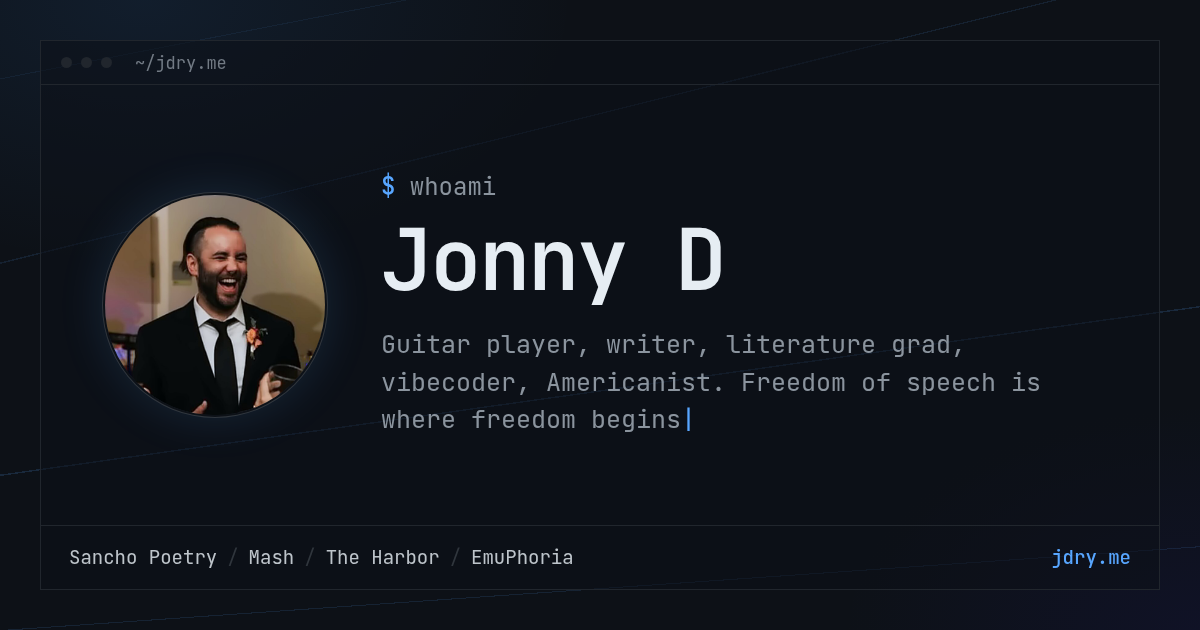
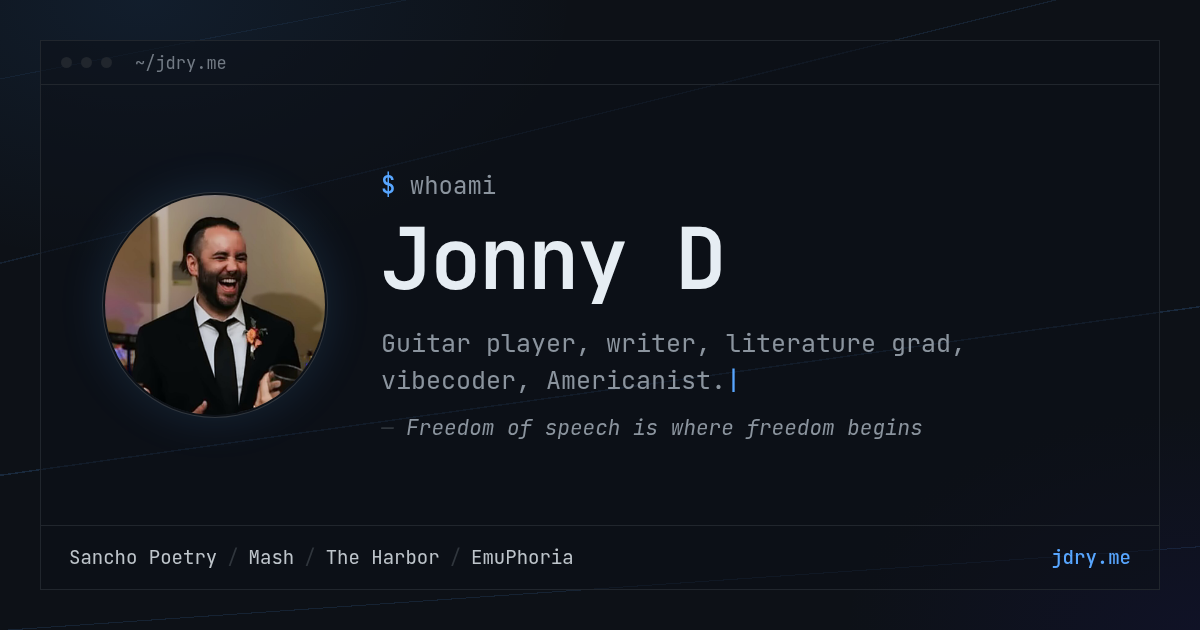
Show the tagline immediately and split out the epigraph (#8)
The typewriter took ~5s to finish, so visitors read a half-typed
sentence and the links jumped when it wrapped. The descriptor now
renders at once with the blinking cursor, and the free-speech line
is a separate profile.epigraph shown as a quieter italic line. The
prerender, JSON-LD, and OG card read the same fields.

diff --git a/src/components/Header.tsx b/src/components/Header.tsx
@@ -4,6 +4,7 @@ import { createPortal } from 'react-dom'
 interface HeaderProps {
   name: string
   tagline: string
+  epigraph: string
   avatar: string
 }
 
@@ -101,43 +102,12 @@ function useAvatarTilt<T extends HTMLElement>(ref: React.RefObject<T | null>, sc
   return { handleMouseEnter, handleMouseMove, handleMouseLeave }
 }
 
-export default function Header({ name, tagline, avatar }: HeaderProps) {
-  const [typed, setTyped] = useState('')
-  const [doneTyping, setDoneTyping] = useState(false)
+export default function Header({ name, tagline, epigraph, avatar }: HeaderProps) {
   const [modalOpen, setModalOpen] = useState(false)
   const reducedMotion = useRef(
     typeof window !== 'undefined' &&
       window.matchMedia('(prefers-reduced-motion: reduce)').matches
   )
-
-  useEffect(() => {
-    if (reducedMotion.current) {
-      setTyped(tagline)
-      setDoneTyping(true)
-      return
-    }
-
-    let intervalId: ReturnType<typeof setInterval> | null = null
-    let i = 0
-
-    const timeoutId = setTimeout(() => {
-      intervalId = setInterval(() => {
-        i++
-        if (i <= tagline.length) {
-          setTyped(tagline.slice(0, i))
-        } else {
-          clearInterval(intervalId!)
-          intervalId = null
-          setDoneTyping(true)
-        }
-      }, 45)
-    }, 500)
-
-    return () => {
-      clearTimeout(timeoutId)
-      if (intervalId) clearInterval(intervalId)
-    }
-  }, [tagline])
 
   const closeModal = useCallback(() => setModalOpen(false), [])
 
@@ -245,9 +215,10 @@ export default function Header({ name, tagline, avatar }: HeaderProps) {
       </button>
       <h1 className="name">{name}</h1>
       <p className="tagline">
-        {typed}
-        <span className={`cursor${doneTyping ? ' cursor--blink' : ''}`} aria-hidden="true">|</span>
+        {tagline}
+        <span className="cursor cursor--blink" aria-hidden="true">|</span>
       </p>
+      <p className="epigraph">{epigraph}</p>
 
       {modalOpen && createPortal(
         <div

diff --git a/scripts/og/template.html b/scripts/og/template.html
@@ -4,6 +4,7 @@
 <meta charset="utf-8" />
 <style>
   @font-face { font-family: 'JBM'; font-weight: 400; src: url('{{fontDir}}/jetbrains-mono-latin-400-normal.woff2'); }
+  @font-face { font-family: 'JBM'; font-weight: 400; font-style: italic; src: url('{{fontDir}}/jetbrains-mono-latin-400-italic.woff2'); }
   @font-face { font-family: 'JBM'; font-weight: 500; src: url('{{fontDir}}/jetbrains-mono-latin-500-normal.woff2'); }
   @font-face { font-family: 'JBM'; font-weight: 600; src: url('{{fontDir}}/jetbrains-mono-latin-600-normal.woff2'); }
   * { margin: 0; padding: 0; box-sizing: border-box; }
@@ -58,6 +59,8 @@
   h1 { font-size: 86px; font-weight: 600; letter-spacing: -0.03em; line-height: 1; margin-bottom: 24px; }
   .tagline { font-size: 25px; line-height: 1.5; color: #8b949e; max-width: 680px; }
   .cursor { color: #58a6ff; }
+  .epigraph { font-size: 21px; font-style: italic; color: #8b949e; margin-top: 14px; }
+  .epigraph::before { content: '— '; color: #30363d; }
   .foot {
     height: 64px; border-top: 1px solid #21262d;
     display: flex; align-items: center; justify-content: space-between;
@@ -82,6 +85,7 @@
         <p class="prompt"><b>$</b> whoami</p>
         <h1>{{name}}</h1>
         <p class="tagline">{{tagline}}<span class="cursor">|</span></p>
+        <p class="epigraph">{{epigraph}}</p>
       </div>
     </div>
     <div class="foot">

diff --git a/src/components/__tests__/Header.test.tsx b/src/components/__tests__/Header.test.tsx
@@ -1,0 +1,26 @@
+import { render, screen } from '@testing-library/react'
+import { profile } from '../../config/profile'
+import Header from '../Header'
+
+describe('Header', () => {
+  beforeEach(() => {
+    vi.stubGlobal('matchMedia', vi.fn().mockReturnValue({
+      matches: false,
+      addEventListener: vi.fn(),
+      removeEventListener: vi.fn(),
+    }))
+  })
+
+  afterEach(() => {
+    vi.unstubAllGlobals()
+  })
+
+  it('renders the full tagline and epigraph on first render', () => {
+    render(<Header {...profile} />)
+
+    const tagline = screen.getByText(profile.tagline)
+    expect(tagline).toHaveClass('tagline')
+    expect(tagline.querySelector('.cursor')).toHaveAttribute('aria-hidden', 'true')
+    expect(screen.getByText(profile.epigraph)).toHaveClass('epigraph')
+  })
+})

diff --git a/src/main.tsx b/src/main.tsx
@@ -4,6 +4,7 @@ import { BrowserRouter } from 'react-router-dom'
 import App from './App.tsx'
 import MemoryMonitor from './components/MemoryMonitor'
 import '@fontsource/jetbrains-mono/latin-400.css'
+import '@fontsource/jetbrains-mono/latin-400-italic.css'
 import '@fontsource/jetbrains-mono/latin-500.css'
 import '@fontsource/jetbrains-mono/latin-600.css'
 import './index.css'

diff --git a/src/index.css b/src/index.css
@@ -818,6 +818,20 @@ html::after {
   margin: 0 auto;
 }
 
+.epigraph {
+  font-size: 0.72rem;
+  font-style: italic;
+  color: var(--text-muted);
+  max-width: 320px;
+  margin: 0.5rem auto 0;
+}
+
+.epigraph::before {
+  content: '— ';
+  content: '— ' / '';
+  color: var(--border);
+}
+
 /* Typewriter cursor */
 .cursor {
   color: var(--accent);

diff --git a/src/config/profile.ts b/src/config/profile.ts
@@ -1,5 +1,6 @@
 export const profile = {
   name: 'Jonny D',
-  tagline: 'Guitar player, writer, literature grad, vibecoder, Americanist. Freedom of speech is where freedom begins',
+  tagline: 'Guitar player, writer, literature grad, vibecoder, Americanist.',
+  epigraph: 'Freedom of speech is where freedom begins',
   avatar: '/avatar.jpg',
 }

diff --git a/README.md b/README.md
@@ -11,7 +11,7 @@ npm run dev
 
 ## Customize
 
-- **Profile**: Edit `src/config/profile.ts` — name, handle, tagline, avatar path
+- **Profile**: Edit `src/config/profile.ts` — name, handle, tagline, epigraph, avatar path
 - **Links**: Edit `src/config/links.ts` — add/remove links
 - **Avatar**: Replace `public/avatar-placeholder.svg` with your image (or point `avatar` in profile.ts to your file)
 
